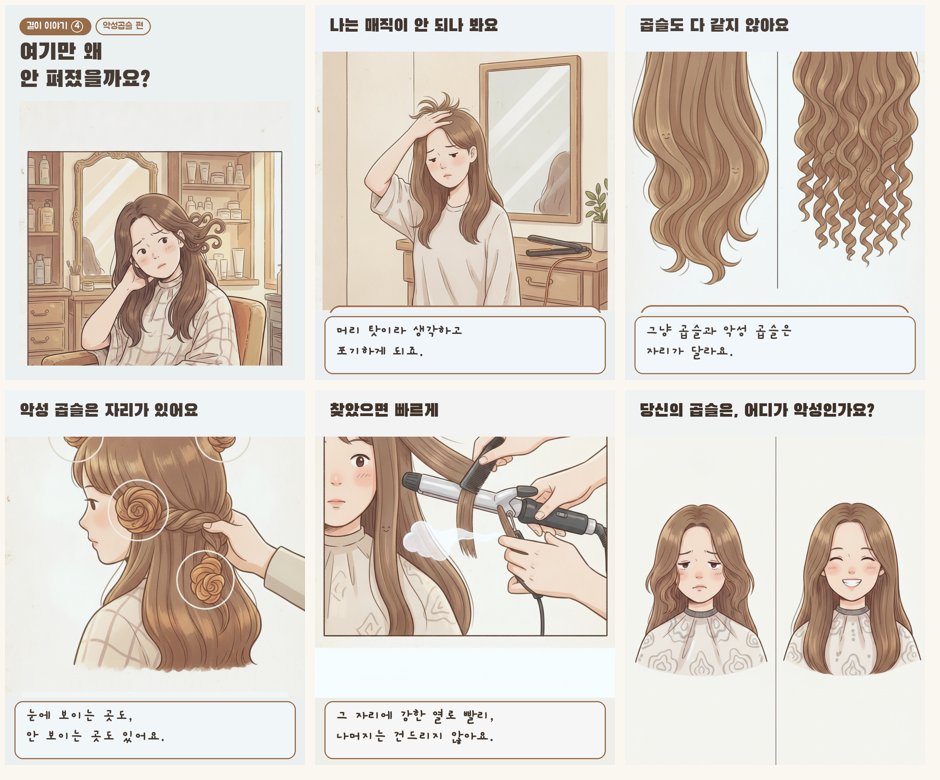
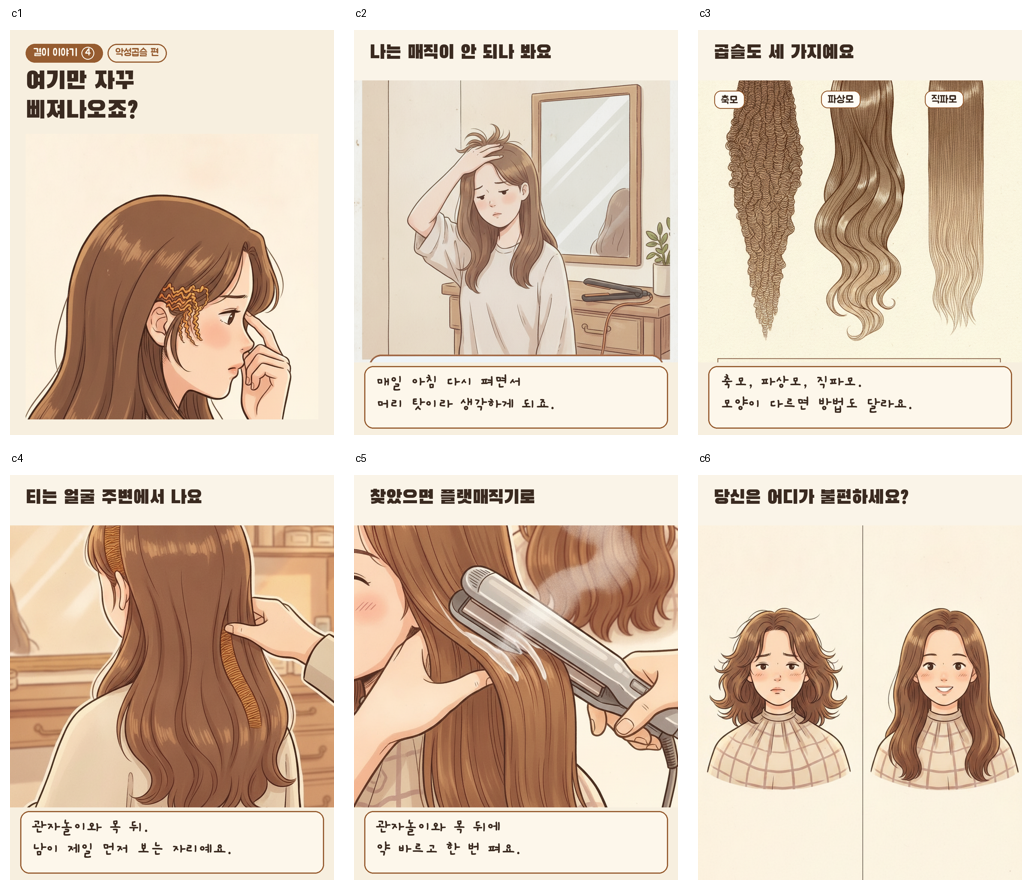
[만화연재방] ④악성곱슬에 ⑤고데기 통합 재구성

diff --git a/scripts/manga_pipeline2.py b/scripts/manga_pipeline2.py
@@ -118,6 +118,8 @@ def assemble(panel: dict, raw: Path, out: Path):
     for k in ("badge", "title", "head", "body", "pin"):
         if panel.get(k):
             cmd += [f"--{k}", panel[k]]
+    for label in panel.get("label", []):
+        cmd += ["--label", label]
     subprocess.run(cmd, check=True)
 
 
@@ -148,6 +150,15 @@ def main():
             ok += 1
             continue
         prompt = f"{CHARACTER_LOCK}\n\n[이 컷]\n{panel['prompt']}"
+        # 악성곱슬 통합편 실생성 검수에서 반복된 오류를 컷별로 잠근다.
+        if "악성곱슬" in spec.get("title", ""):
+            corrections = {
+                3: "직파모는 위쪽 반은 곳고 아래쪽 반은 확실한 완만한 물결이어야 한다. 세 다발은 아래쪽 프레임 밖으로 계속 이어져 끝이 화면에 보이지 않게 해라. J자, C자, 고리, 고리 모양 머리끝을 절대 그리지 마라. 사람, 결이 마스코트, 얼굴, 장식은 아예 등장시키지 마라.",
+                4: "옆얼굴과 뒷모습이 함께 보이는 3/4 후면으로 그려라. 축모는 반드시 두 구역이 동시에 보여야 한다. 첫째는 화면 왼쪽에 노출된 귀의 바로 앞, 관자놀이 헤어라인. 둘째는 머리카락 가장 아래쪽 목덜미 헤어라인. 손은 두 구역을 가리지 말고 사이 머리만 들어라. 뒷머리 중앙에는 축모를 그리지 마라. 결이 마스코트, 얼굴 붙은 머리 장식, 주황색 캐릭터는 아예 등장시키지 마라.",
+                6: "좌우 인물 위에는 아무 라벨도 두지 마라. Before, After를 포함한 모든 글자와 숫자를 그리지 마라. 머리카락이나 몸에 얼굴 붙인 장식, 결이 마스코트, 주황색 캐릭터, 꽃, 장미를 아예 등장시키지 마라. 좌우 구분은 얇은 세로선만 사용해라.",
+            }
+            if n in corrections:
+                prompt += f"\n\n[추가 절대 교정]\n{corrections[n]}"
         print(f"🎨 c{n} {panel['name']} …")
         if not generate(prompt, raw, refs):
             print(f"  ❌ c{n} 실패")

diff --git a/_strategy/만화연재방_전용규약.md b/_strategy/만화연재방_전용규약.md
@@ -47,6 +47,26 @@
 
 ---
 
+## ⛔ 곱슬은 세 가지로 그린다 — 축모·파상모·직파모 (2026-08-17 차노 지시)
+
+> 차노 원문: **"장미형 소용돌이는 안돼 장미같잖아. 곱슬을 다르게 표현해봐 축모 파상모 직파모"**
+
+「소용돌이 금지」만으로는 계속 장미가 나왔다(악성곱슬 c4에 장미 4송이). **금지어가 아니라 그릴 것을 지정한다.**
+
+| 분류 | 모양 | 그리는 법 | 그리면 안 되는 것 |
+|---|---|---|---|
+| **축모** (縮毛) | 오그라든 털 | 좁은 폭으로 **촘촘하게 꺾이는 지그재그 물결**. 주기가 짧아 가닥이 빽빽하게 눌린다. 뿌리부터 끝까지 균일. 부피가 커 보인다 | 나선으로 말려 **동그란 덩어리**가 되는 것 = 장미 |
+| **파상모** (波狀毛) | 물결 털 | **완만하고 큰 S자**가 가닥 전체에 길게 흐른다. 폭이 넓고 주기가 길다. 윤기가 산다 | 촘촘하게 꺾이는 것(그건 축모) |
+| **직파모** (直波毛) | 곧다가 물결 | **한 가닥 안에서 성질이 갈린다.** 뿌리 쪽은 곧게 떨어지고, 중간부터 끝으로 가며 물결이 생긴다 | 전체를 균일하게 물결치게 하는 것 |
+
+### 절대 규칙
+- **가닥은 옆으로 굽이친다. 앞으로 말리지 않는다.** 나선(코일)을 정면에서 보면 동심원이 되고, 그게 장미로 읽힌다.
+- 곱슬을 **한 덩어리로 뭉치지 않는다.** 가닥 여러 개가 나란히 흐르는 걸 그린다.
+- 프롬프트에 쓸 때: 「소용돌이 금지」로 끝내지 말고 **「축모 — 좁은 폭으로 촘촘히 꺾이는 지그재그 물결」처럼 그릴 형태를 지정**한다.
+- 이 세 분류는 **악성곱슬 편 ④의 축 자체다** — 「곱슬도 다 같지 않다」가 곧 축모·파상모·직파모다.
+
+---
+
 ## ⛔ 시술 사실 박제 (틀리면 되돌릴 수 없다)
 
 ### 매직 — 열은 「매일 약하게」가 아니라 「제대로 한 번」 (2026-08-17 차노 정정)

diff --git a/_현재_진행.md b/_현재_진행.md
@@ -2,9 +2,10 @@
 
 > **방(코워크/코드방/본진)이 멈춰도 이 파일 하나로 다음 방이 바로 이어간다.**
 > 규칙: **작업 단위마다 이 파일을 갱신하고 커밋·push**(되쓰기). 이게 최신이 아니면 이어받기가 깨진다.
-> 최신 갱신: 2026-08-17
+> 최신 갱신: 2026-08-19
 
 ## 📍 지금 상태 (무엇을 어디까지)
+- **만화연재 ④ 악성곱슬 통합 재구성 시안 완료**: 구 ⑤고데기를 흡수해 6컷으로 재구성. c2 그림 재사용+문구 교체, c1·c3·c4·c5·c6 재생성. c3 축모/파상모/직파모 라벨은 조립 단계에서 추가. `_out/결이악성곱슬_final__M/` 6장 전부 1080×1350, 본문 밴드 `(250,244,232)` 확인. **미발행·차노 승인 대기.**
 - **만화연재 ①편 레퍼런스 복구**: `c1_표지.png`·`c2_매듭.png`·`c6_공간.png` 3장 복구·검증 완료. 이후 만화 파이프라인이 캐릭터·화풍 레퍼런스를 정상 로드할 수 있음.
 - **쇼츠 중복·싱크 게이트**: `scripts/shorts_gate.py`에 **S8 최우선→S7→S9** 구현·테스트 완료. 기존 쇼츠 27편 소급은 S8 0/27(로컬 Whisper 없음), S7 픽셀 24통과·2경고·1탈락, S7 매니페스트/S9 0/27(근거 없음). senior 2종·ai일기 1종 인서트 부족으로 새 렌더 중단. 상세 `knowledge/쇼츠_S8_S7_S9_소급검사_20260817.md`.
 - **만화연재방 고데기 편 ⑤ 재작업 완료**: c1·c3·c6 재생성, c2 빈 박스 제거, 전 6컷 웜 크림 재조립 완료. `_out/결이고데기_final__M/c1.png`~`c6.png` 모두 1080×1350. c2~c6 밴드 RGB `(250,244,232)` 실측. **썸네일 컷 선택만 차노 대기**, 미발행.

diff --git a/knowledge/방_공유_작업로그.md b/knowledge/방_공유_작업로그.md
@@ -517,3 +517,8 @@
   - 연결 진단: 지식 인덱스 2,807청크(옵시디언 322) 정상, Drive OAuth 형식 정상. `git pull --rebase`는 다른 방의 미커밋 변경 때문에 중단되어 해당 변경을 보존함.
   - 판단: 원본 파일 수는 오늘 3편분을 넘지만, **S8 1개 의존성/모델 복구 + S9 매니페스트 3편분 + TTS 3편분 + 서로 다른 BGM 2곡 + 테스트 실패 1건 해소 전에는 3/3을 매일 채울 수 없음.**
   - 근거 경로: `_strategy/일일_생산목표_정본.md`, `_clips_pool/`, `scripts/shorts_gate.py`, `tests/test_shorts_gate_s789.py`, `knowledge/쇼츠_S8_S7_S9_소급검사_20260817.md`
+- 2026-08-19 (만화연재방) ✅ **④ 악성곱슬 편 — ⑤고데기 통합 재구성 6컷 시안 완료·미발행**
+  - 레퍼런스 3장 실첨부로 c1·c3·c4·c5·c6 재생성, c2는 구본 그림 재사용 후 문구만 교체
+  - c3 축모/파상모/직파모 라벨 조립, c4 관자놀이+목덜미 두 자리, c5 플랫매직기, c6 하단 패널 없는 전후형 실측
+  - `_out/결이악성곱슬_final__M/c1.png`~`c6.png`, `_out/결이악성곱슬_final__M/_컨택트시트.png`
+  - 전 6장 1080×1350, 본문 밴드 `(250,244,232)`. ⛔ 발행 안 함 — 차노 승인 대기

diff --git a/_obsidian_out/판단/2026-08-17_고데기편과_악성곱슬편_통합.md b/_obsidian_out/판단/2026-08-17_고데기편과_악성곱슬편_통합.md
@@ -1,0 +1,9 @@
+# 2026-08-17 고데기편과 악성곱슬편 통합
+
+- 언제: 2026-08-17
+- 무엇을: "고데기편과 악성곱슬편 똑같은 내용이잖아 중복" → ⑤고데기 편을 ④악성곱슬 편에 통합하고 ⑤ 자리는 비운다.
+- 왜: "고데기편과 악성곱슬편 똑같은 내용이잖아 중복"
+- 되돌릴 수 있나: 있음. 구 ⑤ 산출물과 구조 JSON은 참고용으로 보존한다.
+- 뒤집으면: 이찬호 지시로만 연재 대장·구조·산출물 순서를 함께 갱신한다.
+
+함께 박제한 원문: "장미형 소용돌이는 안돼 장미같잖아. 곱슬을 다르게 표현해봐 축모 파상모 직파모"
